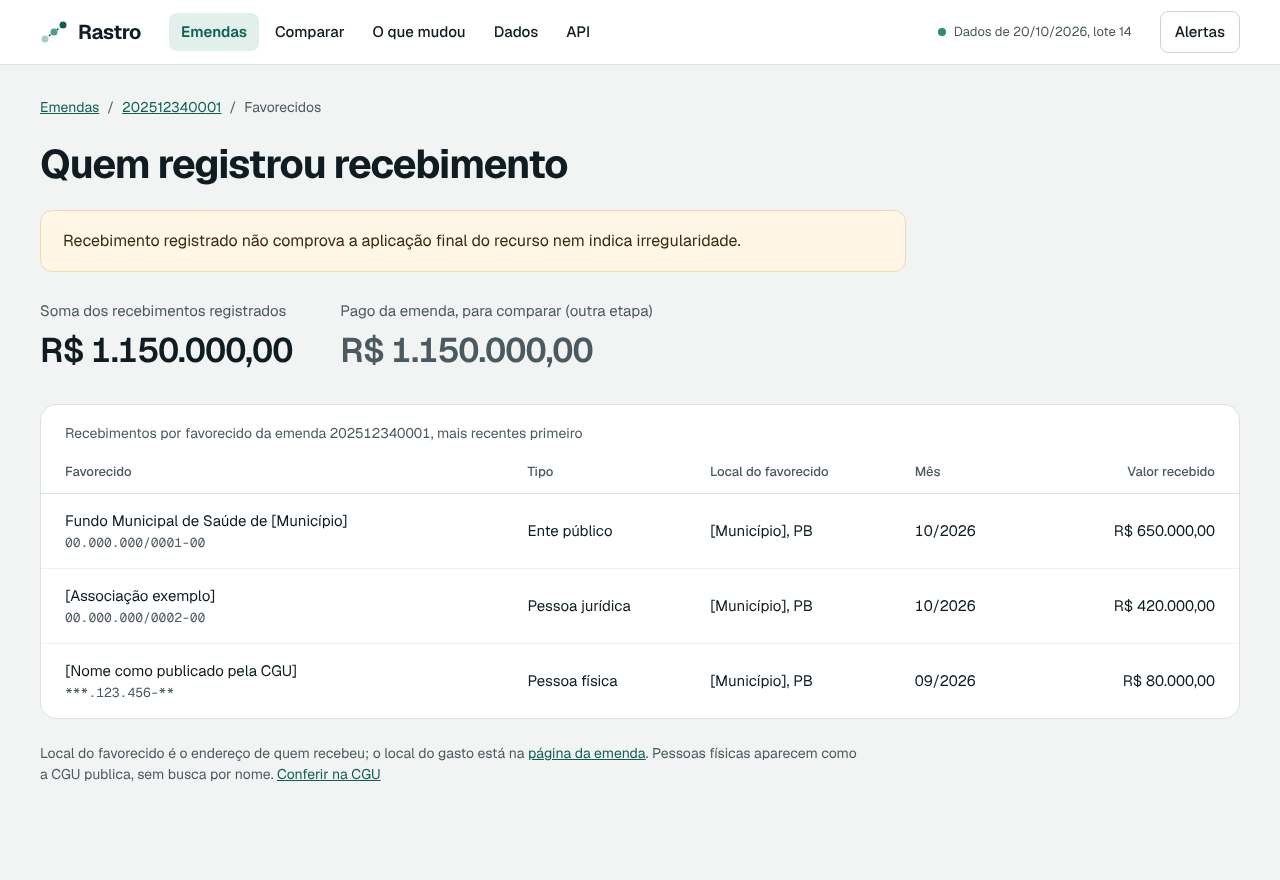
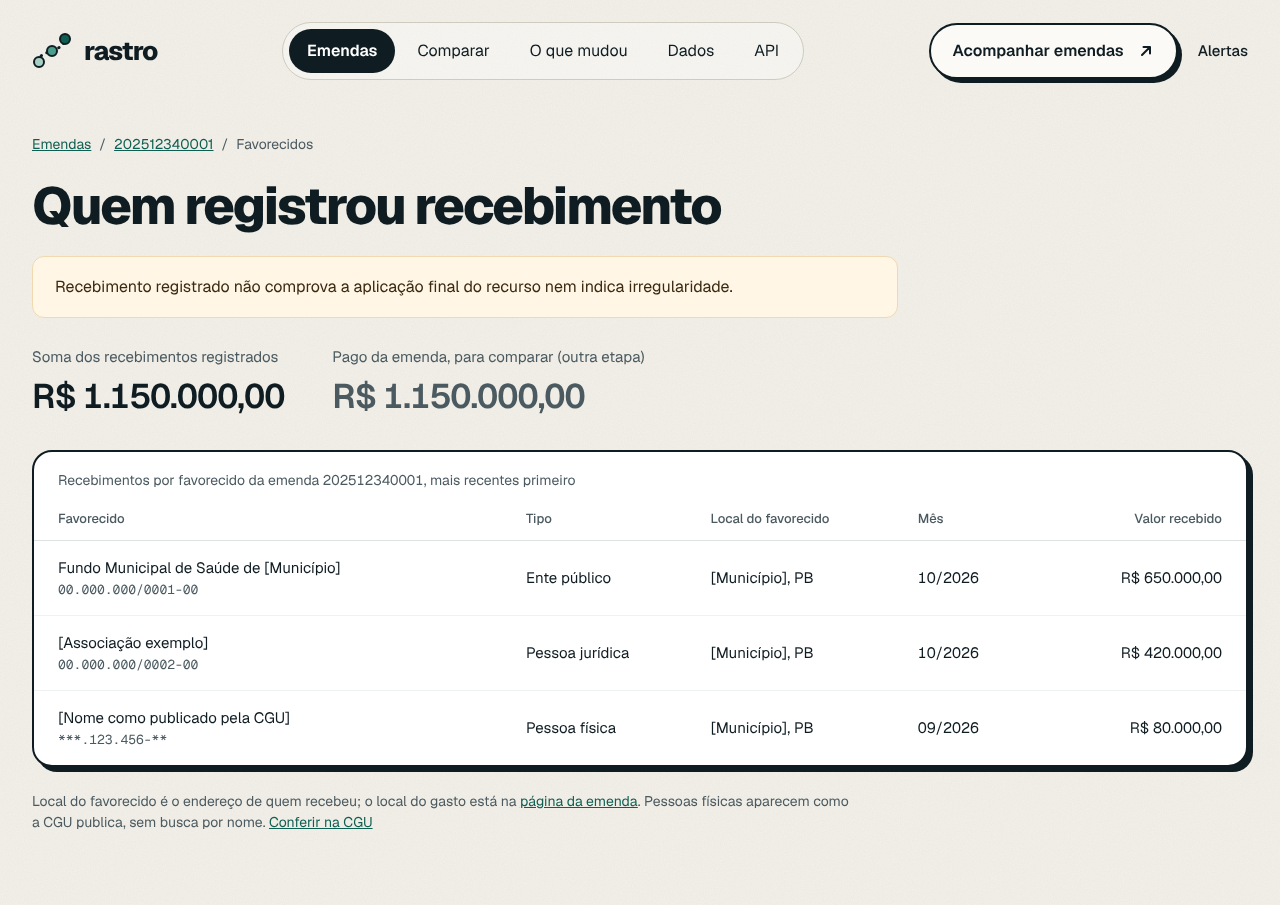
Novo visual em todas as telas e P01 interativa
- Papel, navegação em pílula, bordas de tinta com sombra deslocada (Geist)
- P01: recortes animados do caminho do dinheiro, faixa de mudanças, passo a passo das etapas
- Ficha P01 e diretrizes atualizadas; anexos regenerados

Claude-Session: https://claude.ai/code/session_01ETNU5uQUMK4aChQjZRdReK

diff --git a/especificacoes/joao-vitor/telas/P01-inicio.md b/especificacoes/joao-vitor/telas/P01-inicio.md
@@ -28,7 +28,9 @@
   - "Comparar autores, UFs e funções" → P06.
   - "Ver o que mudou" → P08 (`listar_mudancas` sem parâmetros).
   - Faixa "Dados de … · Lote #n" → P09.
-  - Clicar no papel do topo (ou Enter no botão "Colar um adesivo no papel") → cola um adesivo com uma frase do glossário ("Empenhado ≠ pago", "Toda cifra tem origem") no ponto clicado. A interação é só visual, acontece no navegador, não chama a API e não guarda nada; "Limpar adesivos" remove todos.
+  - Escolher um recorte do caminho do dinheiro (Brasil, Paraíba, Saúde, Educação) → a trilha anima as frações liquidada e paga e troca os valores. Brasil usa `Status.fontes[].resumo` (`obter_status`); UF usa o grupo da UF em `obter_agregacoes?dimensao=uf`; função usa o grupo em `obter_agregacoes?dimensao=funcao`.
+  - Faixa "371 mudanças no lote 14" → P08; cada item da faixa (`MudancaLote.codigo_emenda` e o texto da mudança, de `listar_mudancas`) → P03. A faixa rola sozinha e pausa com o mouse ou o foco do teclado.
+  - "Como ler estes números": escolher Empenho, Liquidação ou Pagamento (ou "Próxima etapa") → a moeda anda até a etapa e o painel mostra a definição do glossário e o valor da etapa no lote ativo. É conteúdo local mais os valores de `obter_status`, sem outra chamada.
 - **Estados:**
   - **carregando:** esqueleto do resumo e da faixa; campo de busca já utilizável (REQ-44).
   - **vazio:** não se aplica ao resumo. Lote com 0 mudanças → "Nenhuma mudança no último lote" (REQ-45).
@@ -44,10 +46,13 @@
 - **Requisitos · contrato:**
   - REQ-14, REQ-15, REQ-19, REQ-48 · `GET /api/status` (`obter_status`).
   - REQ-20 · `GET /api/filtros/opcoes` (`listar_opcoes_filtro`).
+  - REQ-22 · `GET /api/agregacoes` (`obter_agregacoes`) para os recortes por UF e função.
+  - REQ-24 · `GET /api/mudancas` (`listar_mudancas`) para a faixa de mudanças.
   - REQ-16 · `GET /api/emendas/{codigo}` (`obter_emenda`) quando o texto é um código.
 - **Acessibilidade:**
   - Um único `<h1>`; campo de busca com rótulo visível "Buscar emenda, autor ou função" e dica de formato do código.
   - Os três valores do resumo formam uma lista (`<dl>`) com o valor completo no texto acessível ("R$ 1,2 bilhão", não "R$ 1,2 bi").
   - Foco inicial no conteúdo, não no campo, para não abrir o teclado no celular.
-  - Os adesivos são decorativos (`aria-hidden`), ficam atrás do texto e nunca cobrem a busca. O botão que cola adesivos tem nome acessível, a contagem é texto visível, e a animação some com `prefers-reduced-motion`.
+  - O recorte é um grupo de botões de opção (`role="radiogroup"`), e a mudança de valores é anunciada (`role="status"`). As etapas são abas (`role="tablist"`).
+  - As moedas que correm na trilha e a faixa em movimento são decorativas (`aria-hidden`) e param com `prefers-reduced-motion`. A faixa pausa com o foco do teclado.
 - **Anexo:** mockup de referência [anexos/P01.png](anexos/P01.png), exportado do canvas "Rastro — telas" (Claude Design).

diff --git a/especificacoes/joao-vitor/arquitetura/rastreabilidade.md b/especificacoes/joao-vitor/arquitetura/rastreabilidade.md
@@ -9,7 +9,7 @@ Gerada por `verificar.py` a partir das fichas em `../telas/`, de `requisitos.md`
 | D01 | REQ-14, REQ-16, REQ-17, REQ-18, REQ-19, REQ-28, REQ-30, REQ-44, REQ-45, REQ-46, REQ-47, REQ-65 | `obter_contrato`, `obter_emenda` |
 | O01 | REQ-01, REQ-02, REQ-03, REQ-04, REQ-05, REQ-06, REQ-10, REQ-11, REQ-12, REQ-21, REQ-50, REQ-52, REQ-53, REQ-54, REQ-56, REQ-59 | `cli:importar`, `cli:sincronizar` |
 | O02 | REQ-07, REQ-08, REQ-09, REQ-12, REQ-35, REQ-36, REQ-37, REQ-38, REQ-50, REQ-56, REQ-57, REQ-63, REQ-64 | `cli:publicar` |
-| P01 | REQ-14, REQ-15, REQ-16, REQ-19, REQ-20, REQ-28, REQ-44, REQ-45, REQ-46, REQ-47, REQ-48, REQ-60 | `listar_mudancas`, `listar_opcoes_filtro`, `obter_emenda`, `obter_status` |
+| P01 | REQ-14, REQ-15, REQ-16, REQ-19, REQ-20, REQ-22, REQ-24, REQ-28, REQ-44, REQ-45, REQ-46, REQ-47, REQ-48, REQ-60 | `listar_mudancas`, `listar_opcoes_filtro`, `obter_agregacoes`, `obter_emenda`, `obter_status` |
 | P02 | REQ-14, REQ-15, REQ-19, REQ-20, REQ-21, REQ-28, REQ-34, REQ-44, REQ-45, REQ-46, REQ-47, REQ-48, REQ-60, REQ-65 | `listar_emendas`, `listar_opcoes_filtro` |
 | P03 | REQ-13, REQ-14, REQ-15, REQ-16, REQ-17, REQ-18, REQ-19, REQ-21, REQ-28, REQ-44, REQ-45, REQ-46, REQ-47, REQ-48, REQ-60 | `listar_favorecidos`, `obter_autor`, `obter_emenda`, `obter_linha_do_tempo`, `obter_status` |
 | P04 | REQ-14, REQ-15, REQ-16, REQ-17, REQ-18, REQ-19, REQ-23, REQ-28, REQ-44, REQ-45, REQ-46, REQ-47, REQ-60 | `obter_emenda`, `obter_linha_do_tempo` |
@@ -49,9 +49,9 @@ Gerada por `verificar.py` a partir das fichas em `../telas/`, de `requisitos.md`
 | REQ-19 | D01, P01, P02, P03, P04, P05, P06, P07, P08, P09, S01 | qualidade |
 | REQ-20 | P01, P02, P06, P08, S01 | — |
 | REQ-21 | O01, P02, P03, P06 | — |
-| REQ-22 | P06, P07 | — |
+| REQ-22 | P01, P06, P07 | — |
 | REQ-23 | P04 | ADR-0006 |
-| REQ-24 | P08 | ADR-0004 |
+| REQ-24 | P01, P08 | ADR-0004 |
 | REQ-25 | P05 | ADR-0007 |
 | REQ-26 | P05 | ADR-0007 |
 | REQ-27 | P08, P09 | — |
@@ -104,7 +104,7 @@ Gerada por `verificar.py` a partir das fichas em `../telas/`, de `requisitos.md`
 | `obter_emenda` | `GET /api/emendas/{codigo}` | D01, P01, P03, P04, P05 |
 | `obter_linha_do_tempo` | `GET /api/emendas/{codigo}/linha-do-tempo` | P03, P04 |
 | `listar_favorecidos` | `GET /api/emendas/{codigo}/favorecidos` | P03, P05 |
-| `obter_agregacoes` | `GET /api/agregacoes` | P06 |
+| `obter_agregacoes` | `GET /api/agregacoes` | P01, P06 |
 | `obter_autor` | `GET /api/autores/{codigo}` | P03, P06, P07 |
 | `listar_mudancas` | `GET /api/mudancas` | P01, P08 |
 | `listar_lotes` | `GET /api/lotes` | P08, P09 |

diff --git a/especificacoes/joao-vitor/telas/diretrizes.md b/especificacoes/joao-vitor/telas/diretrizes.md
@@ -38,8 +38,10 @@ Valem para todas as fichas de tela. As fichas não repetem estas diretrizes; reg
 ## Referência visual
 
 - **Ideia central: a trilha.** O mesmo elemento visual aparece em todas as telas com valores: uma barra única em que o empenhado é a trilha inteira e o liquidado e o pago a preenchem por dentro. Ela mostra quanto do dinheiro reservado já avançou, sem somar etapas. A cor segue uma escala sequencial de um só tom (claro → escuro = empenhado → liquidado → pago), e cada etapa sempre tem também o rótulo escrito.
-- **Tipografia:** Geist (interface, títulos e números, com algarismos tabulares) e Geist Mono só para identificadores (código da emenda, hash, CLI). Títulos com tracking levemente negativo; corpo de 16 px; escala 13/15/16/20/24/40/56.
-- **Paleta:** fundo cinza-esverdeado frio `#F2F4F3`, superfícies brancas, tinta `#0F1C22`, texto secundário `#4B5A60` (contraste ≥ 7:1), verde-pinho `#0E5E52` para ações e links, escala da trilha `#A7CFC4` / `#4A9E8B` / `#0E5E52`, âmbar `#FFF6E6`/`#8A4B00` só para avisos e diferenças entre lotes.
+- **Tipografia:** Geist (interface, títulos e números, com algarismos tabulares) e Geist Mono só para identificadores (código da emenda, hash, CLI). Títulos em peso 800 com tracking negativo; corpo de 16 px; escala 13/15/16/20/26/38/52/76.
+- **Superfícies:** fundo de papel `#F3F1EA` com textura leve. Cartões, campos e botões têm borda de tinta `#0F1C22` (1,5–2 px) e sombra dura deslocada (3–7 px), que afunda ao clicar. O cabeçalho tem a navegação dentro de uma pílula com contorno e a ação principal "Acompanhar emendas" à direita.
+- **Paleta:** tinta `#0F1C22`, texto secundário `#3B4A50`/`#4B5A60` (contraste ≥ 7:1 sobre o papel), verde-pinho `#0E5E52` para ações e links, escala da trilha `#A7CFC4` / `#4A9E8B` / `#0E5E52`, âmbar `#F5B83D` só como destaque (moeda, contador de alertas, faixa de mudanças).
+- **Movimento:** uma entrada suave por tela, as moedas correndo na trilha da P01 e a faixa de mudanças. Tudo para com `prefers-reduced-motion`.
 - **Inspira:** a clareza de produtos de dados com interface sóbria (painéis densos e legíveis, tabelas com números alinhados à direita) e o padrão de formulários do GOV.UK Design System (rótulo visível, erro junto ao campo).
 - **Evitar:**
   - visual de "dashboard de BI" (velocímetros, pizza, gradientes);
